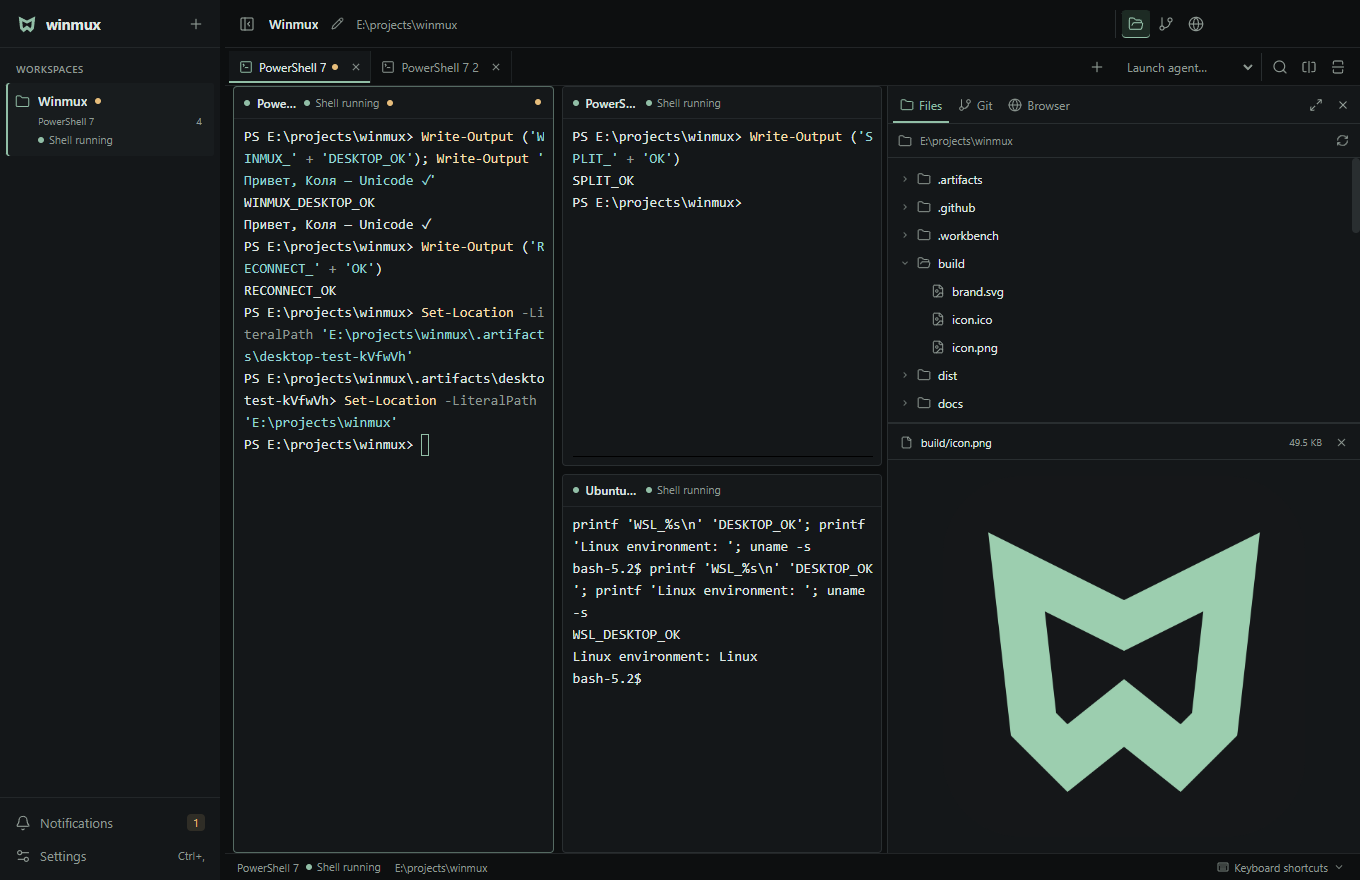
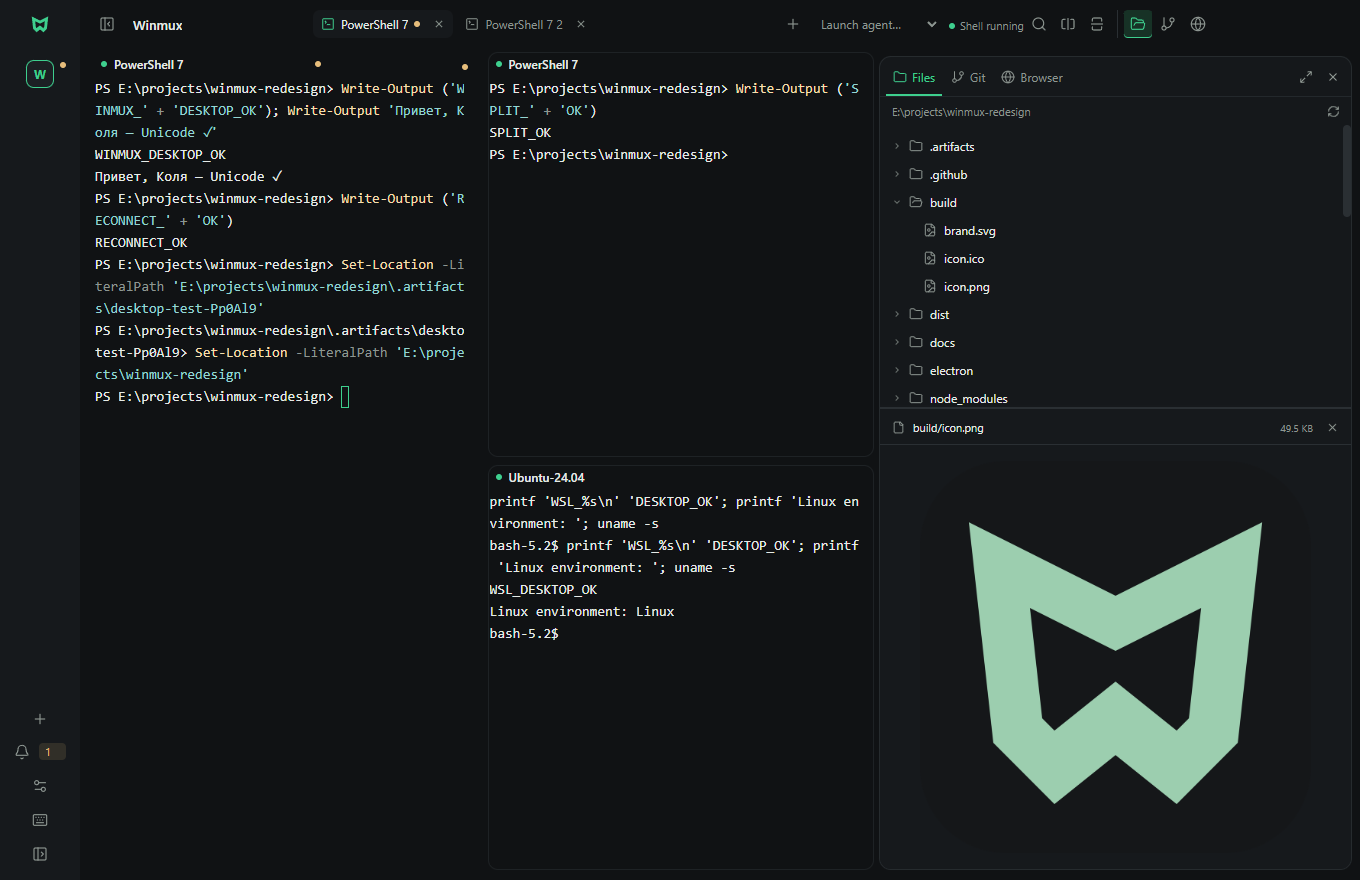
feat: redesign the dark workspace and fix release publishing
What: one 48px header, a 60px workspace rail, and a visible agent name/state replace the nested chrome; release assets land in the publish root and drafts resolve by release ID.
Why: the v0.1 composition was not the requested dark Linear/Raycast workspace, and v0.1.0 publication failed on artifact placement and draft lookup.
Check: dist built 15:38:31 after these sources; npm run test:desktop passed 15:40:29 (.artifacts/desktop-report.json, ByC3AH, no renderer errors; the compact probe closes only its own tab and keeps the original PIDs). node --test tests/release-workflow-regression.cjs passed 5/5 in this turn.
Refs: #3
Refs: #4

diff --git a/README.md b/README.md
@@ -6,9 +6,9 @@ For developers who live with AI agents, 24/7 on Windows.
 
 Keep your agents, shells, project files, Git changes, and browser previews in one Windows workspace. Winmux is an independent terminal multiplexer inspired by [cmux](https://cmux.com), built with Electron, TypeScript, xterm.js, and ConPTY.
 
-**v0.1.0 is an early preview.** The interface supports English and Russian. See [verification notes](docs/verification.md) for recorded runtime evidence and the limits of agent integration.
+This source tree prepares **0.2.0**, a dark workspace redesign for the existing Windows terminal workspace. The interface supports English and Russian, and all earlier workspace, terminal, process, project-tool, browser, hook, and file-preview capabilities remain available. See [verification notes](docs/verification.md) for recorded runtime evidence and the limits of agent integration.
 
-![Winmux workspace in the dark theme](docs/screenshots/workspace-dark.png)
+![Winmux dark workspace with its collapsed project rail, unified header, and split terminals](docs/screenshots/workspace-dark.png)
 
 ## What is here
 
@@ -21,18 +21,24 @@ Keep your agents, shells, project files, Git changes, and browser previews in on
 - A tabbed HTTP(S) browser with independent pages, domain-scoped cookie import, and local automation for inspecting, clicking, filling, evaluating JavaScript, and screenshots.
 - A local terminal CLI and [repository-shipped agent skills](docs/agents.md).
 
-![Winmux workspace in the light theme](docs/screenshots/workspace-light.png)
+## Workspace layout
+
+Projects live in a compact 60-pixel workspace rail. The rail keeps every workspace one click away and uses unread markers plus confirmed agent state without taking terminal space. Use the **Show workspace names** button at the bottom of the rail to expand it to 240 pixels; the expanded list can be resized with the pointer or keyboard, and the same button collapses it again.
+
+The project switcher in the top header opens the current workspace list directly. The unified header also contains terminal tabs, new-tab and agent-launch controls, the active shell or agent state, and the Files, Git, and Browser tools. The former separate tab strip and status footer are gone, while the inspector still opens beside the terminals when needed.
+
+![Winmux light workspace with a collapsed project rail and unified header](docs/screenshots/workspace-light.png)
 
 ## Download
 
-Use the [latest release page](https://github.com/samo33ddd/winmux/releases/latest) for published Windows builds. The initial v0.1.0 preview is planned to include:
+Use the [latest release page](https://github.com/samo33ddd/winmux/releases/latest) for published Windows builds. When the 0.2.0 release is available, its generated Windows x64 assets will be:
 
 | Asset | Purpose |
 | --- | --- |
-| `Winmux-Setup-0.1.0-x64.exe` | Windows x64 installer |
-| `Winmux-Portable-0.1.0-x64.exe` | Windows x64 portable executable |
+| `Winmux-Setup-0.2.0-x64.exe` | Windows x64 installer |
+| `Winmux-Portable-0.2.0-x64.exe` | Windows x64 portable executable |
 
-A version is available only when its assets appear on the release page. If the initial release has not been published yet, run from source below. Portable describes how the app is launched; local state still defaults to `%LOCALAPPDATA%/Winmux/`.
+A version is available only when its assets appear on the release page. These expected names do not establish publication. Portable describes how the app is launched; local state still defaults to `%LOCALAPPDATA%/Winmux/`.
 
 ## Run from source
 
@@ -48,17 +54,19 @@ After building, you can also double-click `Winmux.cmd`. Use `npm run dev` for re
 
 ## Daily use
 
-Create a workspace with **Ctrl+Shift+N**, choose a shell profile, and select its startup directory. The sidebar switches projects; the horizontal tabs belong to the selected project. Use **Ctrl+T** or the tab-bar plus button to add a terminal that inherits the active terminal's directory. The agent selector opens an agent in another tab of that same workspace. Split terminals with the pane toolbar or shortcuts, drag a divider to resize, and double-click a divider to make its sides equal.
+Create a workspace with **Ctrl+Shift+N**, choose a shell profile, and select its startup directory. Select projects from the workspace rail or the header's project switcher. Terminal tabs in the unified header belong to the selected project. Use **Ctrl+T** or the header plus button to add a terminal that inherits the active terminal's directory. The agent selector opens an agent in another tab of that same workspace. Split terminals with the pane toolbar or shortcuts, drag a divider to resize, and double-click a divider to make its sides equal.
 
 Use the folder, branch, and globe buttons in the top bar to open **Files**, **Git**, and **Browser**. Files shows text and image previews. Git shows the current branch, changed files, and diffs; perform edits, staging, commits, and other Git operations in a terminal. Browser opens a website or a local development server alongside your terminals.
 
 Click local paths printed in a terminal to open the same text or image preview inside Winmux. Windows absolute paths, `./` relative paths, quoted paths with spaces, `file:line` references, and local `file://` links are supported. HTTP(S) links keep their existing external-browser behavior. Winmux never changes Windows file associations or executes the selected file.
 
-![Winmux project tools](docs/screenshots/project-tools.png)
+![Winmux Files inspector beside split terminals, showing project folders and an image preview](docs/screenshots/project-tools.png)
 
 ![Local image preview inside the packaged Winmux application](docs/screenshots/file-preview.png)
 
 Select terminal text to copy it, or use the copy and paste shortcuts below. **Ctrl+C** still interrupts a terminal process. Open Settings with **Ctrl+,** for language, themes, fonts, cursor, clipboard behavior, cookie import, and project-scoped skill installation. The bell opens notifications; choosing one focuses its terminal and tab.
+
+![Winmux Settings showing six color themes, custom theme actions, and language controls](docs/screenshots/settings.png)
 
 Press **Alt** to show the application menu. In its **Winmux** submenu, **Close window** keeps terminal sessions running; **Stop all sessions and exit** asks for confirmation. **View** contains fullscreen and developer tools; **Help** opens the shortcut reference.
 
@@ -84,7 +92,9 @@ Closing the window detaches the UI from the background terminal daemon. Closing 
 
 A daemon restart or Windows reboot restores saved layout and metadata with **fresh shells**. It cannot preserve running processes or resume agent conversations, and it never replays previous commands. The process indicator reports whether a shell is running; it does not infer whether an agent is thinking, waiting for approval, or finished.
 
-The workspace and pane show the selected agent and its last confirmed state. **Agent status hooks** adds session-only hooks for supported Claude Code and modern Codex launches, reporting work, permission/input waits, and completed turns. Existing global/project configuration and Codex notification commands remain intact. Windows session hooks require PowerShell 7.3 or later; older agent versions may not support the hook options. Agents without a supported hook adapter show unknown activity until the shell confirms their exit, rather than guessing from output or silence. Commands typed manually in a shell are not automatically classified as agents.
+The unified header and selected workspace item show the agent and its last confirmed state; the collapsed rail uses a smaller state marker for the same event-derived information. **Agent status hooks** adds session-only hooks for supported Claude Code and modern Codex launches, reporting work, permission/input waits, and completed turns. Existing global/project configuration and Codex notification commands remain intact. Windows session hooks require PowerShell 7.3 or later; older agent versions may not support the hook options. Agents without a supported hook adapter show unknown activity until the shell confirms their exit, rather than guessing from output or silence. Commands typed manually in a shell are not automatically classified as agents.
+
+![Winmux unified header with terminal tabs and a local fixture agent reporting completed status](docs/screenshots/terminal-tabs-agent.png)
 
 Files and Git follow the active terminal's directory through shell integration. PowerShell keeps the user's profile and prompt; WSL Bash reports its directory through OSC 7. While a foreground program is running, the displayed directory is the last directory reported by its shell. Windows and Linux paths are separate namespaces: the folder picker selects Windows directories; enter Linux paths for WSL profiles.
 

diff --git a/docs/verification.md b/docs/verification.md
@@ -13,15 +13,21 @@ Verified on Windows 11 x64 with Node.js 24.12.0, Electron 45.3.2, PowerShell 7, 
 - `npm run test:cookies`: cookie input normalization, domain scope, host-only, expiry, SameSite, partition rejection, and invalid input pass.
 - `npm run test:desktop`: real Electron/PowerShell/WSL, Unicode, splits, close/reopen with the same shell PID, six themes, English/Russian labels, custom theme import/export, terminal preferences, and resize pass. Terminal tabs and fixture-agent launch remain within the selected workspace; independent output/PIDs and active selection survive tab switching and renderer reload. Files follow both `cd` and terminal-tab selection. Browser open/snapshot/fill/click/evaluate/screenshot, HttpOnly cookie import, and independent browser-tab state pass. No renderer errors or residual UI error banners were observed.
 
-## Minimal desktop redesign
+## Windows 0.2.0 verification
 
-The final full `npm run test:desktop` passes with the redesigned interface. The refreshed screenshots show the implemented flat graphite surfaces, slim project sidebar, compact terminal tabs, subtle separators, restrained mint accents, and light theme. The default-enabled agent status hooks preference persists locally in Settings → Behavior, initializes new workspace launches, and retains supported-agent filtering. This documents implemented UI and actual Electron captures; no generated design or external design-service approval is claimed.
+- `npm run build` passes for package version `0.2.0`.
+- `npm run test:desktop` passes against the implemented workspace UI. The current `.artifacts/desktop-report.json` records `status: passed`, 15 finding groups, and zero renderer errors. It records the 60-pixel rail expanding to 240 pixels, one header replacing the old tab band and status footer, real PowerShell/WSL output, split panes, same-PID reconnect, 1360×900 and 960×640 layouts, the 960-pixel header agent name, and the collapsed-rail agent-state marker. The 390-pixel stress capture is diagnostic; the supported minimum remains 900 pixels.
+- The desktop run retains six themes, English/Russian controls, custom theme import/export, terminal preferences, independent terminal tabs and processes, directory-following Files/Git, embedded browser tabs and cookie scope, supported-agent hooks, and the internal file preview.
+- `node --test tests/release-workflow-regression.cjs` passes all five publishing-boundary checks: flattened artifact download, new-draft publication, existing-draft publication, malformed-asset rejection, and tag-mismatch rejection.
+- No new real-model inference or model-completion claim is made. The agent capture uses a deliberately local executable fixture.
+
+Issue #4 has independent Sol R1 PASS with no findings. The new-UI Sol R1 returned four confirmed findings: I3-R1-01 launcher drag, I3-R1-02 zero-width tabs at 960 pixels with the expanded rail, I3-R1-03 zoom restore hidden, and I3-R1-04 workspace-switcher outside click. Targeted repairs are in progress. The desktop report above predates those repairs, so this document does not claim a new-UI review pass.
 
 ## Local file preview and packaged application
 
-The bounded, read-only local file preview passes six link-parser tests and file-reader checks on Windows and Ubuntu. The final desktop run passes all 14 checks with real PowerShell and Ubuntu shells, including clicking an actual terminal image path, opening text and images through the real CLI, missing-file failure, Escape dismissal, and no extra BrowserWindow. No renderer errors were observed.
+The bounded, read-only local file preview has six link-parser tests and file-reader checks for Windows and Ubuntu. The recorded desktop run includes clicking an actual terminal image path, opening text and images through the real CLI, missing-file failure, Escape dismissal, and no extra BrowserWindow, with no renderer errors.
 
-The final production build passes, and `electron-builder` completed the Windows installer and portable builds. The extended `.artifacts/packaged-smoke.cjs` passes against the actual `release/win-unpacked/Winmux.exe`, exercising ConPTY, terminal tabs, and the ASAR-packaged helper. The packaged ASAR CLI opens an image inside the app, returns metadata only, and the displayed image has `naturalWidth > 0`. This verifies the unpacked packaged application; it does not establish installer execution or published release availability.
+A local 0.2.0 packaged pre-repair probe is in progress. The package must be rebuilt from the final repaired source before its result is treated as 0.2.0 evidence. Previous packaged checks do not replace that fresh run. The fresh packaged probe must confirm ConPTY, terminal tabs, and the ASAR-packaged helper, while the CLI opens an image inside the app, returns metadata only, and reports a loaded image. This does not establish installer execution or published release availability.
 
 ## Review closure
 
@@ -33,7 +39,7 @@ Installed Windows Codex and Claude Code were launched through the new daemon wit
 
 ## Screenshots
 
-The five images in `docs/screenshots/` come from isolated Electron runs and were visually inspected for private content. They show fixture shell output and project assets. `workspace-dark.png`, `workspace-light.png`, and `project-tools.png` show the redesigned workspace and existing project tools. `terminal-tabs-agent.png` shows a deliberately local executable fixture completing with exit code zero, rather than a model conversation. `file-preview.png` shows the packaged application's in-app image viewer displaying Winmux's own logo asset. Desktop and compact states were exercised at 1360px and 960px window widths. A 390px stress capture was diagnostic only; supported minimum window width remains 900px.
+The six images in `docs/screenshots/` were inspected for private content. The five current 0.2.0 UI captures show the source before the four R1 repairs and will be refreshed after the final runtime pass. `workspace-dark.png` and `workspace-light.png` show the redesigned rail, unified header, status treatment, and split shells in both themes. `project-tools.png` shows the Files inspector beside the terminals. `terminal-tabs-agent.png` shows a local executable fixture reporting completed status, not a model conversation. `settings.png` shows the six themes, custom-theme actions, and language controls. `file-preview.png` remains the packaged v0.1.0 in-app preview capture and will be replaced only after a fresh packaged 0.2.0 probe is built from the repaired source.
 
 ## Upgrade and remaining limits
 
@@ -41,4 +47,4 @@ An already-running daemon keeps its loaded code after an application update. A l
 
 Daemon/Windows restart creates fresh shells and clears current agent identity; it never resumes an agent conversation or replays commands. Activity without supported hooks remains unknown. Shell directory tracking updates at prompts, not inside foreground applications. Agent hooks require compatible CLI versions; Windows session hooks require PowerShell 7.3+. MCP, automatic worktrees, and Windows CLI invocation from inside WSL are not verified capabilities.
 
-Release availability is established only by the published GitHub release and its downloadable installer/portable assets. Local checks do not by themselves establish publication, installer execution, or signed-binary trust.
+Release availability is established only by the published GitHub release and its downloadable installer/portable assets. The 0.2.0 checks above do not establish publication, installer execution, or signed-binary trust.

diff --git a/CONTRIBUTING.md b/CONTRIBUTING.md
@@ -60,10 +60,16 @@ The repository defines these checks:
 npm run build
 npm run test:backend
 npm run test:workspace
+npm run test:cwd-agent
+npm run test:profile
+npm run test:skills
+npm run test:cookies
+npm run test:file-preview
 npm run test:desktop
+node --test tests/release-workflow-regression.cjs
 ```
 
-`build` type-checks TypeScript and builds the renderer. `test:backend` exercises the terminal daemon and CLI with real PTYs. `test:workspace` creates disposable file/Git fixtures and checks file previews, path boundaries, and Git status/diffs. `test:desktop` exercises the real Electron UI and captures evidence. Build before running the desktop check.
+`build` type-checks TypeScript and builds the renderer. `test:backend` exercises the terminal daemon and CLI with real PTYs. `test:workspace` creates disposable file/Git fixtures and checks file previews, path boundaries, and Git status/diffs. The focused agent, profile, skills, cookie, and file-preview checks cover their separate contracts. `test:desktop` exercises the real Electron UI and captures evidence. `release-workflow-regression.cjs` runs the embedded release publisher against an external `gh` fixture, including draft lookup and invalid release data. Build before running the desktop check.
 
 Run the checks relevant to your change locally; integration and release candidates require the full sequence above. Documentation-only changes still need command, link, and claim review. Use existing checks where they cover the behavior, and add regression coverage for meaningful behavior changes. Do not describe an unrun test as passed or a skipped WSL case as supported by evidence.
 
@@ -77,6 +83,10 @@ Keep test data isolated. Preserve useful failure evidence in ignored `.artifacts
 - Web content must not gain Node.js access or access to the app's privileged preload bridge.
 - Preserve explicit unknown states: a running shell or discovered executable does not prove agent activity, hooks, or conversation resume.
 
+## Workspace interface
+
+The workspace rail starts at 60 pixels and expands to 240 pixels through the **Show workspace names** control. Keep project switching available from both the rail and the unified header. The header owns terminal tabs, new-tab and agent-launch actions, confirmed shell or agent status, and project-tool actions; do not restore a separate tab band or status footer. Preserve keyboard access, pointer resizing, the 900-pixel supported minimum window width, all six themes, and English/Russian labels. Agent state must continue to come from real lifecycle or hook events.
+
 Consult [the daemon contract](electron/backend/README.md), [agent guide](docs/agents.md), and [product direction](docs/ideas/winmux.md) before changing these boundaries.
 
 ## Secrets and evidence
@@ -89,4 +99,4 @@ Release code, version, and configuration changes follow the same Issue, typed-la
 
 After that PR is merged and `main` CI is green for the reviewed release commit, an authorized maintainer may create a matching `vX.Y.Z` tag on that commit and publish through the existing release pipeline. Creating the tag or publishing those approved artifacts does not require another Issue or PR; any further code or version change does. Release CI must build and publish the versioned Windows assets from that tag. Verify the published release and its attached executables before announcing availability. A tag or a successful build alone is not proof that users can download the artifacts.
 
-The planned initial preview is `v0.1.0`, with `Winmux-Setup-0.1.0-x64.exe` and `Winmux-Portable-0.1.0-x64.exe`. Later releases should keep the version in both filenames. `npm run package` creates an unpacked app for local inspection; it is not evidence of installer publication. Link users to the repository's [latest release page](https://github.com/samo33ddd/winmux/releases/latest).
+For the current `0.2.0` preparation, the generated names are `Winmux-Setup-0.2.0-x64.exe` and `Winmux-Portable-0.2.0-x64.exe`. These are naming examples, not evidence that the release is available. For another version, substitute its `X.Y.Z` value while keeping the version in both filenames. `npm run package` creates an unpacked app for local inspection; it is not evidence of installer publication. Link users to the repository's [latest release page](https://github.com/samo33ddd/winmux/releases/latest) and verify the attached assets before announcing availability.

diff --git a/CHANGELOG.md b/CHANGELOG.md
@@ -2,6 +2,23 @@
 
 User-visible changes are recorded here. Release availability and downloadable assets are authoritative on the [releases page](https://github.com/samo33ddd/winmux/releases).
 
+## 0.2.0 — Dark workspace redesign
+
+### Changed
+
+- Replaced the separate sidebar, tab strip, and footer chrome with a 60-pixel workspace rail that expands to a resizable 240-pixel project list, giving projects more direct access without spending terminal width (Issue #3).
+- Consolidated project switching, terminal tabs, new-tab and agent-launch actions, confirmed shell or agent status, and project-tool controls into one header (Issue #3).
+- Refined the Files, Git, and Browser inspector and Settings so existing project tools, six themes, custom palettes, and English/Russian controls remain available with less surrounding chrome (Issue #3).
+
+### Fixed
+
+- Release artifacts now download into the publishing root before exact bundle validation, preventing a successful build from failing the four-file release check (Issue #4).
+- Draft releases are now resolved by release ID instead of calling the tag endpoint before publication, allowing the separate write-token job to resume uploads and publish reliably (Issue #4).
+
+### Release status
+
+Release availability and downloadable assets are authoritative on the [releases page](https://github.com/samo33ddd/winmux/releases).
+
 ## 0.1.0 — Initial preview
 
 ### Added
